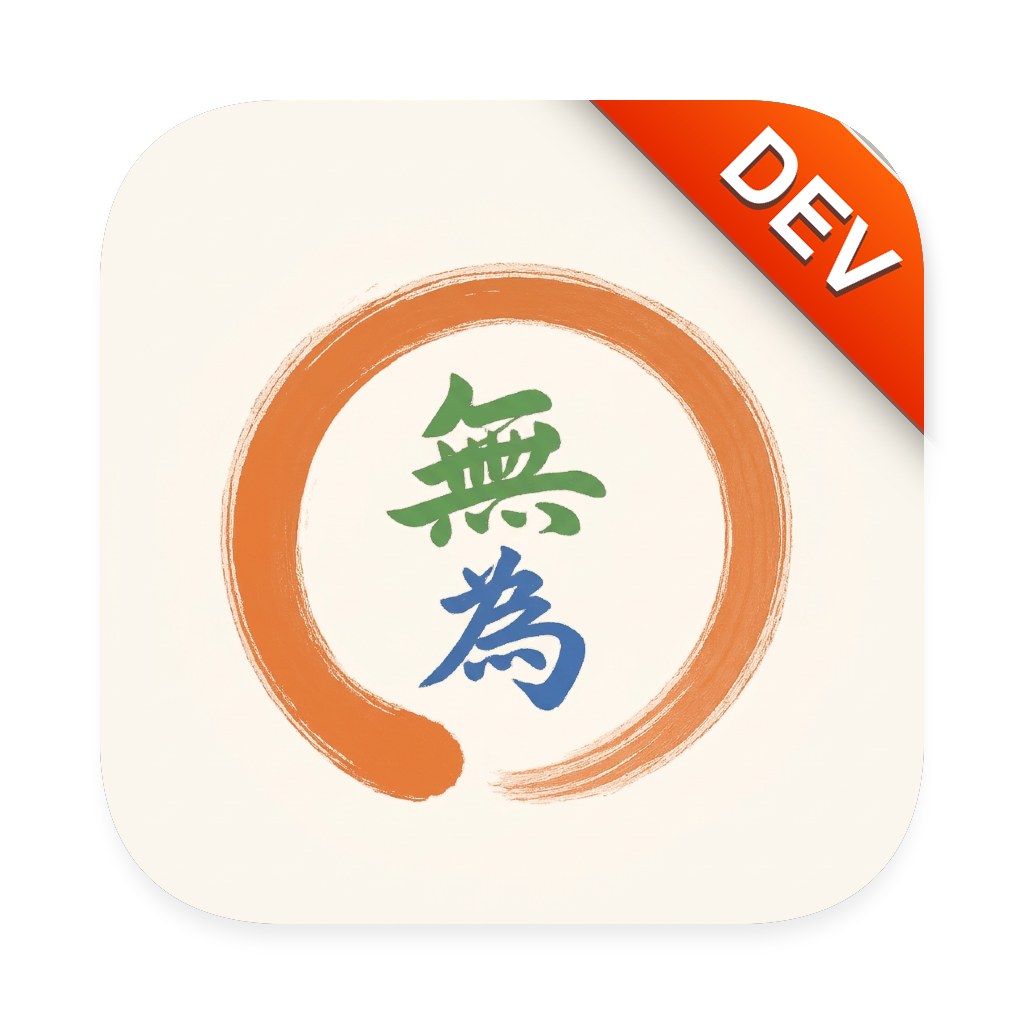
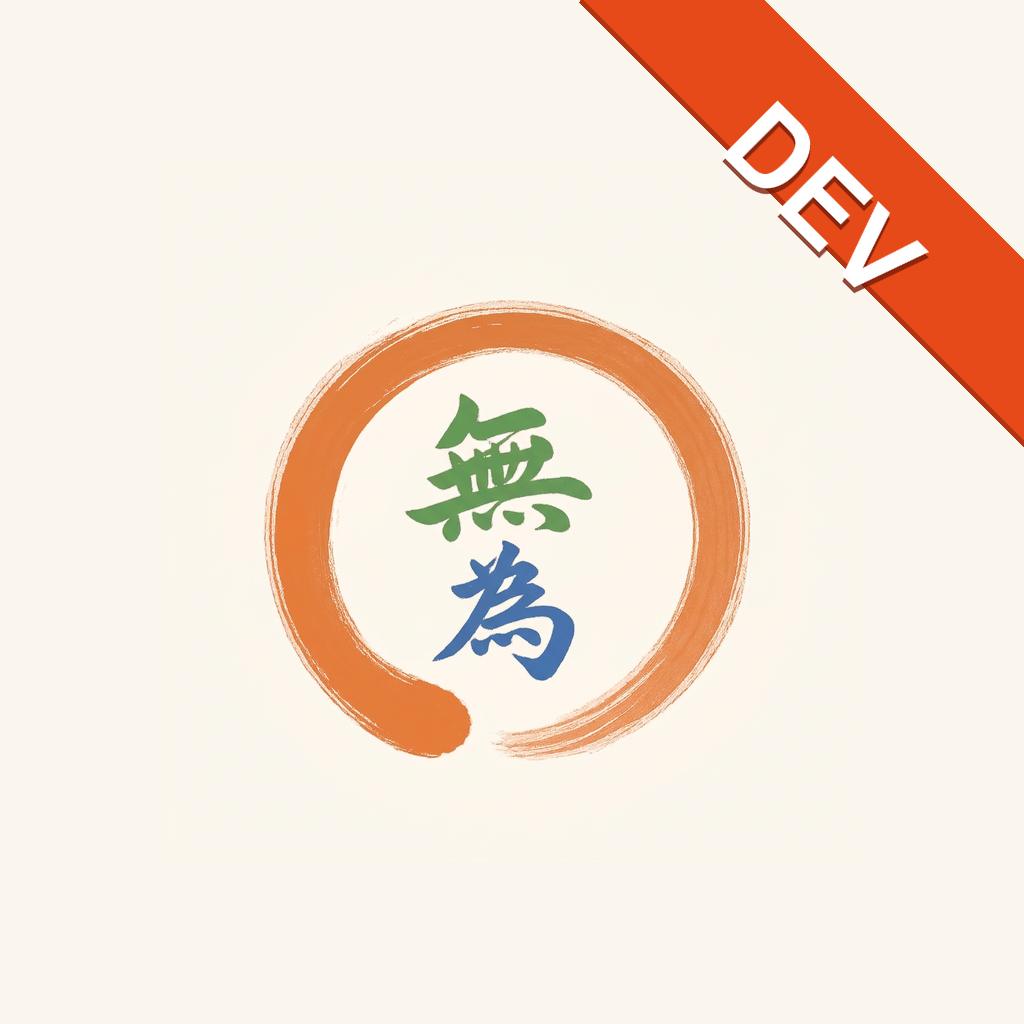
feat(dev): acces direct developpeur Embryo sans login ni mot de passe et icone officielle dock DEV

Changed region(s): [[0.1875, 0.25, 0.7812, 0.7812], [0.5312, 0.0, 1.0, 0.4688]]

diff --git a/src/App.tsx b/src/App.tsx
@@ -92,14 +92,46 @@ const ADMIN_EMAILS = [
 function App() {
   const { t, i18n } = useTranslation();
 
-  const [session, setSession] = useState<any>(null);
-  const [isInitializing, setIsInitializing] = useState(true);
-  const [isAdmin, setIsAdmin] = useState(false);
-  const [isPremium, setIsPremium] = useState(false);
+  const isDevUser = () => {
+    if (typeof window === 'undefined') return false;
+    const urlParams = new URLSearchParams(window.location.search);
+    return (
+      urlParams.get('admin') !== null ||
+      urlParams.get('dev') !== null ||
+      urlParams.get('bypass') !== null ||
+      window.location.hash.includes('dev') ||
+      window.location.pathname.startsWith('/dev') ||
+      localStorage.getItem('DEV_BYPASS_AUTH') === 'true' ||
+      localStorage.getItem('DEV_ADMIN_BYPASS') === 'true'
+    );
+  };
+
+  const devSessionObj = {
+    user: {
+      id: 'dev-bypass-guillaume',
+      email: 'guillaumephilippe1968@gmail.com',
+      user_metadata: { first_name: 'Guillaume', last_name: 'Philippe' }
+    }
+  };
+
+  const [session, setSession] = useState<any>(() => {
+    if (isDevUser()) {
+      try {
+        localStorage.setItem('DEV_BYPASS_AUTH', 'true');
+        localStorage.setItem('DEV_ADMIN_BYPASS', 'true');
+      } catch (e) {}
+      return devSessionObj;
+    }
+    return null;
+  });
+  const [isInitializing, setIsInitializing] = useState<boolean>(() => !isDevUser());
+  const [isAdmin, setIsAdmin] = useState<boolean>(() => isDevUser());
+  const [isPremium, setIsPremium] = useState<boolean>(() => isDevUser());
 
 
   const handleLogout = async () => {
     localStorage.removeItem('DEV_BYPASS_AUTH');
+    localStorage.removeItem('DEV_ADMIN_BYPASS');
     localStorage.removeItem('VIP_BYPASS');
 
     // Remove device from 3-device limit list
@@ -146,16 +178,11 @@ function App() {
   useEffect(() => {
     let mounted = true;
 
-    // DEV / ADMIN BYPASS LOGIC (via URL param ?admin=dev, hash #magic-dev, or localStorage)
-    const urlParams = new URLSearchParams(window.location.search);
-    const hasAdminParam = urlParams.get('admin') === 'dev' || urlParams.get('dev') === 'admin' || urlParams.get('bypass') === 'admin';
-    const hasMagicHash = window.location.hash.includes('magic-dev');
-    const hasStoredBypass = localStorage.getItem('DEV_BYPASS_AUTH') === 'true' || localStorage.getItem('DEV_ADMIN_BYPASS') === 'true';
-
-    if (hasAdminParam || hasMagicHash || hasStoredBypass) {
+    // DEV / ADMIN BYPASS LOGIC (via URL param ?admin=dev, ?dev, hash #dev, /dev, or localStorage)
+    if (isDevUser()) {
       localStorage.setItem('DEV_BYPASS_AUTH', 'true');
       localStorage.setItem('DEV_ADMIN_BYPASS', 'true');
-      setSession({ user: { id: 'dev-bypass', email: 'guillaumephilippe1968@gmail.com' } });
+      setSession(devSessionObj);
       setIsAdmin(true);
       setIsPremium(true);
       setIsInitializing(false);

diff --git a/src/components/AuthScreen.tsx b/src/components/AuthScreen.tsx
@@ -276,19 +276,18 @@ export const AuthScreen: React.FC = () => {
                                 )}
                             </button>
 
-                            {(import.meta.env.DEV || isLocalNetwork()) && (
-                                <button
-                                    type="button"
-                                    onClick={() => {
-                                        localStorage.setItem('DEV_BYPASS_AUTH', 'true');
-                                        window.location.reload();
-                                    }}
-                                    className="w-full flex items-center justify-center py-1.5 px-3 rounded-lg text-[10px] sm:text-xs font-semibold text-white bg-orange-500 hover:bg-orange-600 transition-all mt-1 opacity-90 hover:opacity-100"
-                                >
-                                    <ShieldAlert className="w-3.5 h-3.5 mr-1" />
-                                    {t('auth.devBypass', "DEV: Forcer l'accès Admin")}
-                                </button>
-                            )}
+                            <button
+                                type="button"
+                                onClick={() => {
+                                    localStorage.setItem('DEV_BYPASS_AUTH', 'true');
+                                    localStorage.setItem('DEV_ADMIN_BYPASS', 'true');
+                                    window.location.href = '/?admin=dev';
+                                }}
+                                className="w-full flex items-center justify-center py-2.5 px-3 rounded-xl sm:rounded-2xl text-xs font-bold text-white bg-gradient-to-r from-[#8C4E33] to-[#EA580C] hover:brightness-105 transition-all mt-2 shadow-sm cursor-pointer"
+                            >
+                                <ShieldAlert className="w-4 h-4 mr-1.5 shrink-0" />
+                                <span>⚡ Accès Développeur Direct (Guillaume)</span>
+                            </button>
                         </form>
                     )}
                 </div>
@@ -315,7 +314,7 @@ export const AuthScreen: React.FC = () => {
                     </button>
                     <div className="flex flex-col items-center justify-center">
                         <span className="text-[9px] sm:text-[10px] text-slate-500/80 font-medium uppercase tracking-[0.25em] text-center relative z-20">
-                            {t('auth.realisation', "Réalisation Feelprod")}
+                            Réalisation FeelProd
                         </span>
                         <div className="w-8 h-[1px] bg-slate-300/50 mt-0.5"></div>
                     </div>

diff --git a/index.html b/index.html
@@ -40,15 +40,24 @@
 
 <script>
   // FORCED DEV BYPASS TO BREAK PWA CACHE ON MOBILE
-  if (window.location.hash.includes('magic-dev') || window.location.search.includes('admin=dev') || window.location.search.includes('dev=admin')) {
-    localStorage.setItem('DEV_BYPASS_AUTH', 'true');
-    localStorage.setItem('DEV_ADMIN_BYPASS', 'true');
-    if ('serviceWorker' in navigator) {
-      navigator.serviceWorker.getRegistrations().then(function (registrations) {
-        for (let registration of registrations) { registration.unregister() }
-      });
+  try {
+    const searchParams = new URLSearchParams(window.location.search);
+    if (
+      window.location.hash.includes('dev') ||
+      searchParams.get('admin') !== null ||
+      searchParams.get('dev') !== null ||
+      searchParams.get('bypass') !== null ||
+      window.location.pathname.startsWith('/dev')
+    ) {
+      localStorage.setItem('DEV_BYPASS_AUTH', 'true');
+      localStorage.setItem('DEV_ADMIN_BYPASS', 'true');
+      if ('serviceWorker' in navigator) {
+        navigator.serviceWorker.getRegistrations().then(function (registrations) {
+          for (let registration of registrations) { registration.unregister() }
+        });
+      }
     }
-  }
+  } catch (e) {}
 </script>
 
 <body style="background-color: #FAF6ED;">
